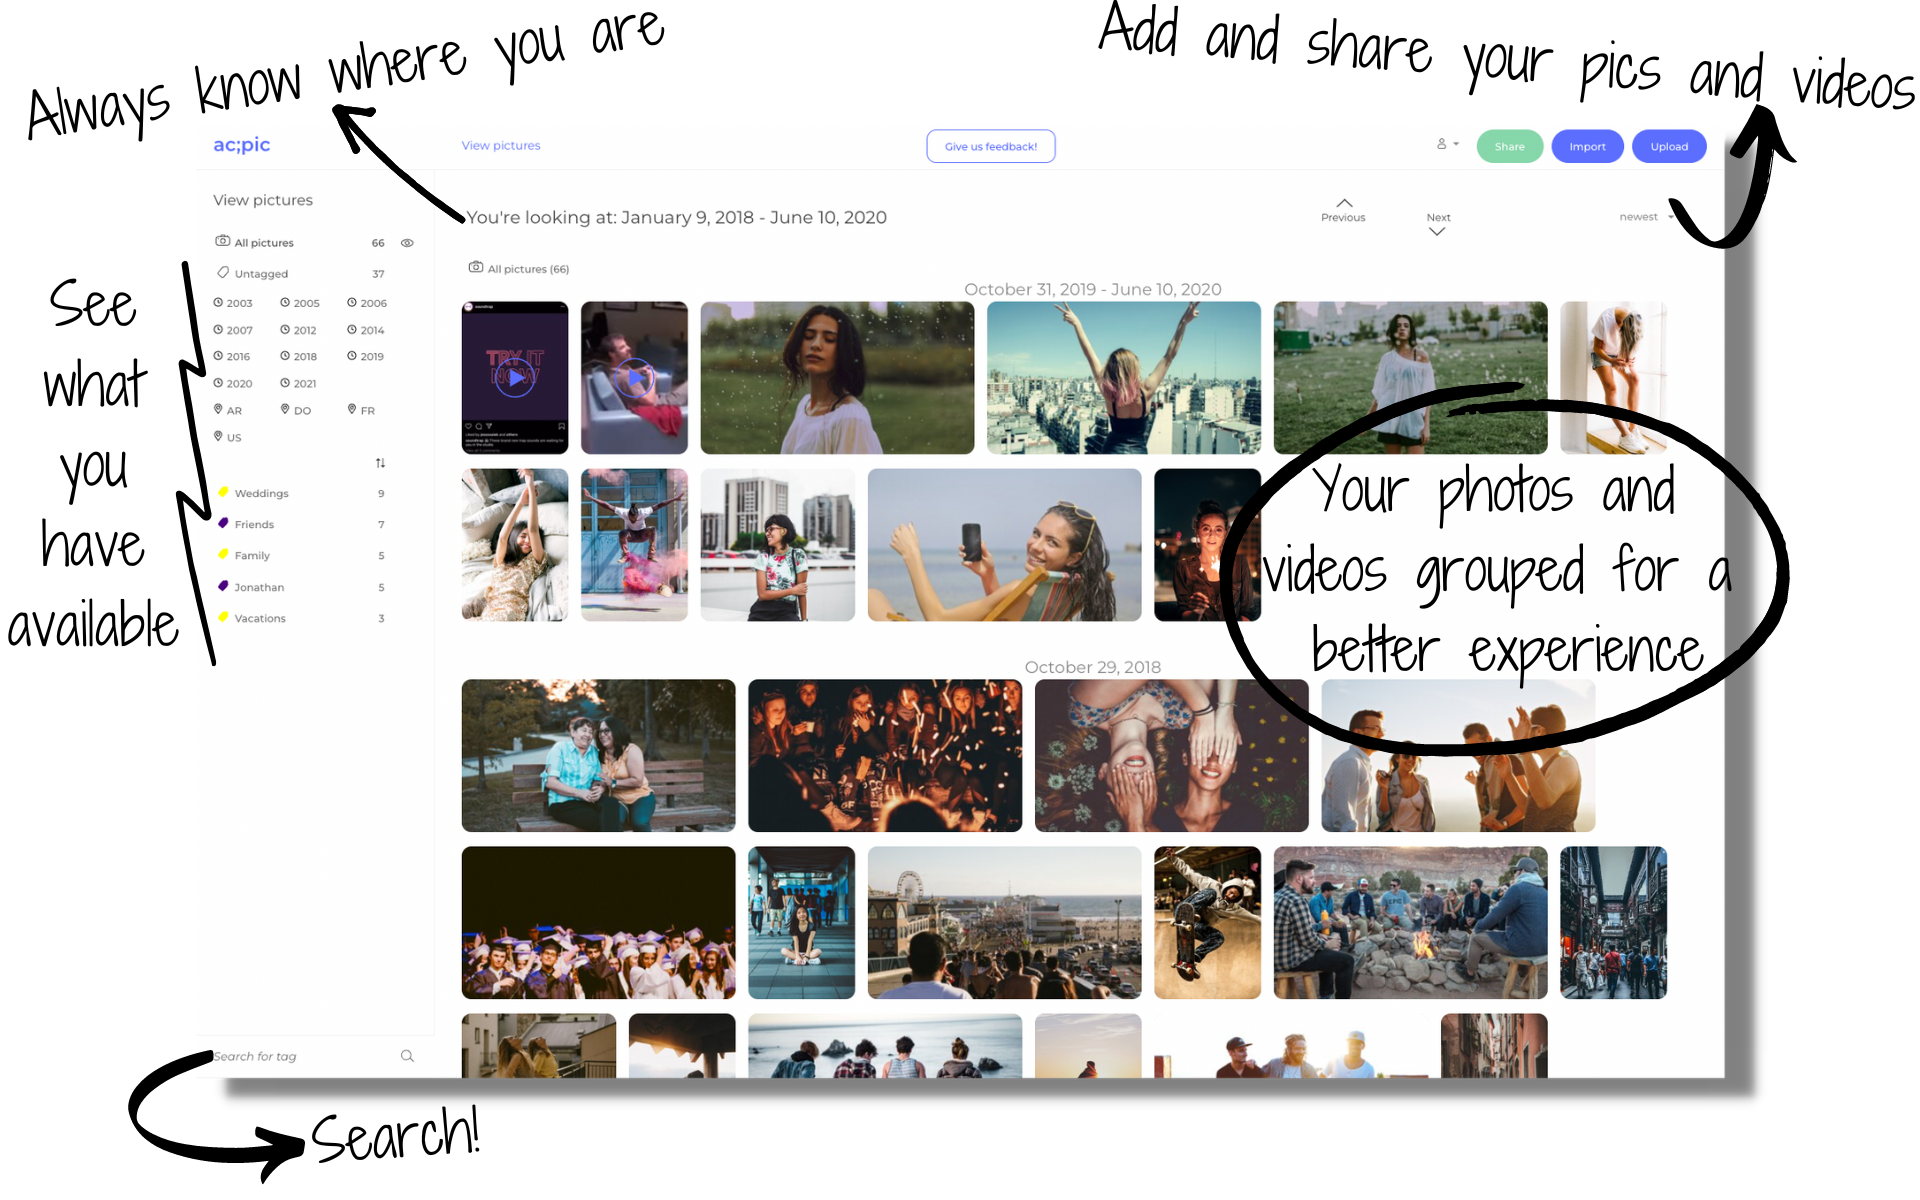
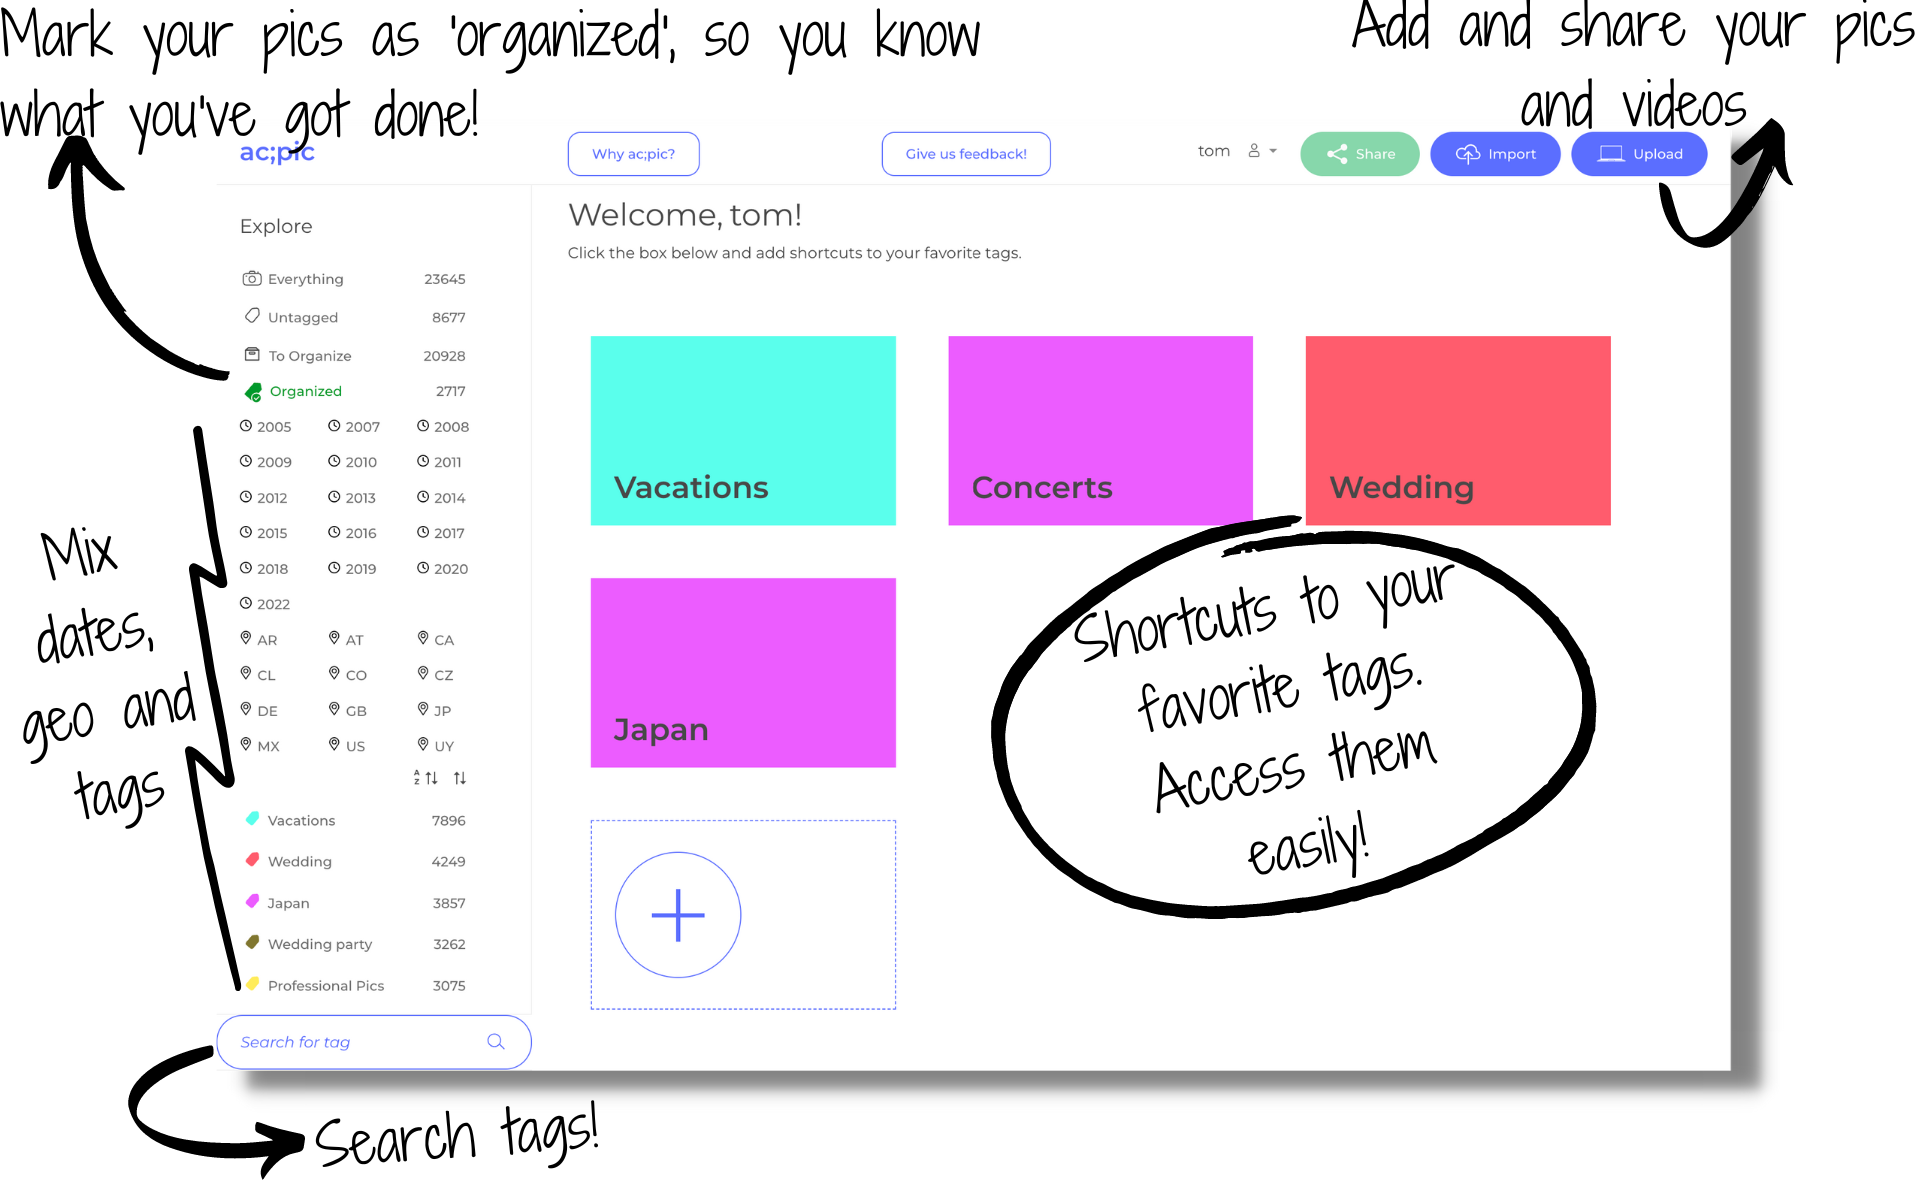
New interface prints & corrections

diff --git a/pic/index.html b/pic/index.html
@@ -83,10 +83,10 @@
       <a href="app/#/login" target="_blank" class="button">Try ac;pic</a>
    </div>
    <div class="demo-mobile">
-      <img src="img/devices/acpic-main-interface-for-mobile-2.png" alt="acpic">
+      <img src="img/devices/acpic-main-interface-for-mobile.png" alt="acpic">
    </div>
    <div class="demo-desktop">
-      <img src="img/devices/acpic-main-interface-2.png" alt="acpic-main-interface">
+      <img src="img/devices/acpic-main-interface.png" alt="acpic-main-interface">
    </div>
    <div class="log-in-button">
       <a href="app/#/login" target="_blank" class="button">Try ac;pic</a>
